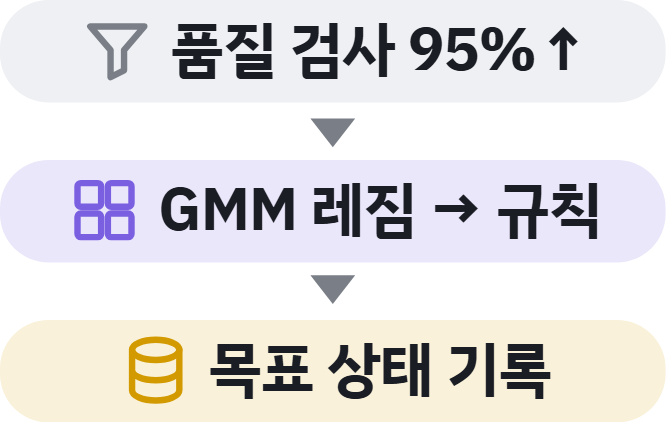
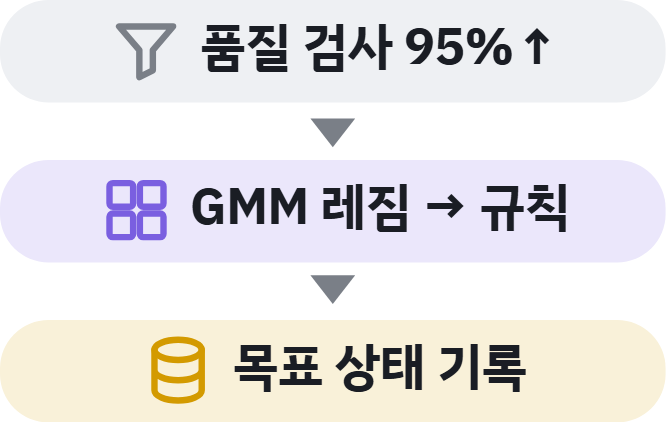
docs(steam): 한마당 카드 글자 상한 — 표 제목(12pt)을 넘지 않도록 헤드라인·KPI 12pt

diff --git a/docs/steam_report/v2/figs/m_flow1.html b/docs/steam_report/v2/figs/m_flow1.html
@@ -15,7 +15,7 @@ html,body{height:100%} body{word-break:keep-all}
 .lab{display:flex;flex-direction:column;align-items:center;justify-content:center;text-align:center;line-height:1.15;color:var(--dim);gap:.2mm;min-width:0}
 .lab .ar{width:0;height:0;border-left:2.6mm solid var(--gray);border-top:1.9mm solid transparent;border-bottom:1.9mm solid transparent;margin:.4mm 0}
 .lab .ad{width:0;height:0;border-top:2.6mm solid var(--gray);border-left:1.9mm solid transparent;border-right:1.9mm solid transparent;margin:.4mm 0}
-.kpi{font-size:calc(var(--fs-t)*1.5);letter-spacing:-.03em}
+.kpi{font-size:var(--fs-t);letter-spacing:-.02em}
 
 .fill{display:flex;flex-direction:column;justify-content:space-between;height:100%}
 .n{flex:none;justify-content:center;align-items:center;text-align:center;padding:.9mm 1.4mm;border-left:none;border-radius:4mm}

diff --git a/docs/steam_report/v2/figs/m_flow2.html b/docs/steam_report/v2/figs/m_flow2.html
@@ -15,7 +15,7 @@ html,body{height:100%} body{word-break:keep-all}
 .lab{display:flex;flex-direction:column;align-items:center;justify-content:center;text-align:center;line-height:1.15;color:var(--dim);gap:.2mm;min-width:0}
 .lab .ar{width:0;height:0;border-left:2.6mm solid var(--gray);border-top:1.9mm solid transparent;border-bottom:1.9mm solid transparent;margin:.4mm 0}
 .lab .ad{width:0;height:0;border-top:2.6mm solid var(--gray);border-left:1.9mm solid transparent;border-right:1.9mm solid transparent;margin:.4mm 0}
-.kpi{font-size:calc(var(--fs-t)*1.5);letter-spacing:-.03em}
+.kpi{font-size:var(--fs-t);letter-spacing:-.02em}
 
 .fill{display:flex;flex-direction:column;justify-content:space-between;height:100%}
 .n{flex:none;justify-content:center;align-items:center;text-align:center;padding:.9mm 1.4mm;border-left:none;border-radius:4mm}

diff --git a/docs/steam_report/v2/figs/m_flow3.html b/docs/steam_report/v2/figs/m_flow3.html
@@ -15,7 +15,7 @@ html,body{height:100%} body{word-break:keep-all}
 .lab{display:flex;flex-direction:column;align-items:center;justify-content:center;text-align:center;line-height:1.15;color:var(--dim);gap:.2mm;min-width:0}
 .lab .ar{width:0;height:0;border-left:2.6mm solid var(--gray);border-top:1.9mm solid transparent;border-bottom:1.9mm solid transparent;margin:.4mm 0}
 .lab .ad{width:0;height:0;border-top:2.6mm solid var(--gray);border-left:1.9mm solid transparent;border-right:1.9mm solid transparent;margin:.4mm 0}
-.kpi{font-size:calc(var(--fs-t)*1.5);letter-spacing:-.03em}
+.kpi{font-size:var(--fs-t);letter-spacing:-.02em}
 
 .fill{display:flex;flex-direction:column;justify-content:space-between;height:100%}
 .n{flex:none;justify-content:center;align-items:center;text-align:center;padding:.9mm 1.4mm;border-left:none;border-radius:4mm}

diff --git a/docs/steam_report/v2/figs/m_control.html b/docs/steam_report/v2/figs/m_control.html
@@ -15,7 +15,7 @@ html,body{height:100%} body{word-break:keep-all}
 .lab{display:flex;flex-direction:column;align-items:center;justify-content:center;text-align:center;line-height:1.15;color:var(--dim);gap:.2mm;min-width:0}
 .lab .ar{width:0;height:0;border-left:2.6mm solid var(--gray);border-top:1.9mm solid transparent;border-bottom:1.9mm solid transparent;margin:.4mm 0}
 .lab .ad{width:0;height:0;border-top:2.6mm solid var(--gray);border-left:1.9mm solid transparent;border-right:1.9mm solid transparent;margin:.4mm 0}
-.kpi{font-size:calc(var(--fs-t)*1.5);letter-spacing:-.03em}
+.kpi{font-size:var(--fs-t);letter-spacing:-.02em}
 
 .fill{display:grid;grid-template-columns:59.5mm 1fr;gap:1.6mm;height:100%}
 .q,.kp{display:grid;grid-template-columns:1fr 1fr;grid-template-rows:1fr 1fr;gap:1.2mm;min-height:0}

diff --git a/docs/steam_report/v2/figs/m_dash_screens.html b/docs/steam_report/v2/figs/m_dash_screens.html
@@ -15,7 +15,7 @@ html,body{height:100%} body{word-break:keep-all}
 .lab{display:flex;flex-direction:column;align-items:center;justify-content:center;text-align:center;line-height:1.15;color:var(--dim);gap:.2mm;min-width:0}
 .lab .ar{width:0;height:0;border-left:2.6mm solid var(--gray);border-top:1.9mm solid transparent;border-bottom:1.9mm solid transparent;margin:.4mm 0}
 .lab .ad{width:0;height:0;border-top:2.6mm solid var(--gray);border-left:1.9mm solid transparent;border-right:1.9mm solid transparent;margin:.4mm 0}
-.kpi{font-size:calc(var(--fs-t)*1.5);letter-spacing:-.03em}
+.kpi{font-size:var(--fs-t);letter-spacing:-.02em}
 
 .fill{display:grid;grid-template-columns:1fr 1fr;grid-template-rows:1fr 1fr;gap:.8mm 1.2mm;height:100%}
 .c{display:flex;flex-direction:column;gap:.3mm;min-height:0}

diff --git a/docs/steam_report/v2/figs/m_system.html b/docs/steam_report/v2/figs/m_system.html
@@ -15,7 +15,7 @@ html,body{height:100%} body{word-break:keep-all}
 .lab{display:flex;flex-direction:column;align-items:center;justify-content:center;text-align:center;line-height:1.15;color:var(--dim);gap:.2mm;min-width:0}
 .lab .ar{width:0;height:0;border-left:2.6mm solid var(--gray);border-top:1.9mm solid transparent;border-bottom:1.9mm solid transparent;margin:.4mm 0}
 .lab .ad{width:0;height:0;border-top:2.6mm solid var(--gray);border-left:1.9mm solid transparent;border-right:1.9mm solid transparent;margin:.4mm 0}
-.kpi{font-size:calc(var(--fs-t)*1.5);letter-spacing:-.03em}
+.kpi{font-size:var(--fs-t);letter-spacing:-.02em}
 
 .fill{display:grid;grid-template-columns:28mm 12mm 13mm 6mm 24mm 10mm 30mm;grid-template-rows:1fr 1fr;gap:1.2mm 0;height:100%}
 .col2{grid-row:1/3}

diff --git a/docs/steam_report/v2/figs/m_analysis.html b/docs/steam_report/v2/figs/m_analysis.html
@@ -15,7 +15,7 @@ html,body{height:100%} body{word-break:keep-all}
 .lab{display:flex;flex-direction:column;align-items:center;justify-content:center;text-align:center;line-height:1.15;color:var(--dim);gap:.2mm;min-width:0}
 .lab .ar{width:0;height:0;border-left:2.6mm solid var(--gray);border-top:1.9mm solid transparent;border-bottom:1.9mm solid transparent;margin:.4mm 0}
 .lab .ad{width:0;height:0;border-top:2.6mm solid var(--gray);border-left:1.9mm solid transparent;border-right:1.9mm solid transparent;margin:.4mm 0}
-.kpi{font-size:calc(var(--fs-t)*1.5);letter-spacing:-.03em}
+.kpi{font-size:var(--fs-t);letter-spacing:-.02em}
 
 .fill{display:grid;grid-template-columns:46mm 37mm 1fr;gap:1.6mm;height:100%}
 .b{padding:.9mm 1.5mm;gap:.5mm;justify-content:space-between}

diff --git a/docs/steam_report/v2/figs/m_dash.html b/docs/steam_report/v2/figs/m_dash.html
@@ -15,7 +15,7 @@ html,body{height:100%} body{word-break:keep-all}
 .lab{display:flex;flex-direction:column;align-items:center;justify-content:center;text-align:center;line-height:1.15;color:var(--dim);gap:.2mm;min-width:0}
 .lab .ar{width:0;height:0;border-left:2.6mm solid var(--gray);border-top:1.9mm solid transparent;border-bottom:1.9mm solid transparent;margin:.4mm 0}
 .lab .ad{width:0;height:0;border-top:2.6mm solid var(--gray);border-left:1.9mm solid transparent;border-right:1.9mm solid transparent;margin:.4mm 0}
-.kpi{font-size:calc(var(--fs-t)*1.5);letter-spacing:-.03em}
+.kpi{font-size:var(--fs-t);letter-spacing:-.02em}
 
 .fill{display:grid;grid-template-columns:repeat(5,1fr);gap:1.1mm;height:100%}
 .b{padding:.9mm 1.4mm;gap:.4mm;justify-content:space-between}

diff --git a/docs/steam_report/v2/figs/m_flow.html b/docs/steam_report/v2/figs/m_flow.html
@@ -15,7 +15,7 @@ html,body{height:100%} body{word-break:keep-all}
 .lab{display:flex;flex-direction:column;align-items:center;justify-content:center;text-align:center;line-height:1.15;color:var(--dim);gap:.2mm;min-width:0}
 .lab .ar{width:0;height:0;border-left:2.6mm solid var(--gray);border-top:1.9mm solid transparent;border-bottom:1.9mm solid transparent;margin:.4mm 0}
 .lab .ad{width:0;height:0;border-top:2.6mm solid var(--gray);border-left:1.9mm solid transparent;border-right:1.9mm solid transparent;margin:.4mm 0}
-.kpi{font-size:calc(var(--fs-t)*1.5);letter-spacing:-.03em}
+.kpi{font-size:var(--fs-t);letter-spacing:-.02em}
 
 .fill{display:flex;flex-direction:column;gap:1.2mm;height:100%}
 .pills{display:flex;align-items:stretch;gap:0;flex:none}

diff --git a/docs/steam_report/v2/design/base_m.css b/docs/steam_report/v2/design/base_m.css
@@ -1,2 +1,3 @@
-/* 한마당 3종 포스터용 크기 체계(확대 인쇄 전제): 본문 9pt / 제목 14pt 굵게 — 두 단계만, 큰 숫자는 .kpi */
-html[data-kind="m"] { --fs: 9pt; --fs-t: 14pt; --u: 0.86; }
+/* 한마당 3종 포스터용 크기 체계: 카드 안 글자는 표 제목(12pt)을 넘지 않는다 — 본문 9pt / 헤드라인 12pt, 큰 숫자(.kpi)도 12pt */
+html[data-kind="m"] { --fs: 9pt; --fs-t: 12pt; --u: 0.86; }
+html[data-kind="m"] .kpi { font-size: var(--fs-t); }

diff --git a/docs/steam_report/HANDOFF.md b/docs/steam_report/HANDOFF.md
@@ -63,6 +63,6 @@ report2/build_report.py   # hwpx 조립: 섹션0(보고서) + poster_fill.py(섹
 - 한/글 COM의 파일 접근 보안 대화상자는 UIA invoke로 닫히지 않고 실제 마우스 클릭만 통한다.
 
 ## 7. 한마당(충남 온누리 AI·SW 학생동아리) 포스터 3종 — v2 (2026-10-03 저녁)
-- 같은 디자인 시스템으로 중앙 포스터의 카드 5종(`m_system, m_dash, m_analysis, m_flow, m_control`), 단계 카드 3종(`m_flow1~3`), 소형 차트 2종(`m_exceed, m_decay` 48×39mm), 화면 2×2(`m_dash_screens`)를 교체. 크기 체계 `data-kind="m"`(`design/base_m.css`: 본문 9pt / 제목 14pt, 확대 인쇄 전제, 렌더 4.5배). 사용자 피드백으로 카드는 이전 버전(c1~c5)의 **색 블록 + 큰 헤드라인 + 아이콘** 문법으로 재설계(토큰 색·두 단계 글자 유지).
+- 같은 디자인 시스템으로 중앙 포스터의 카드 5종(`m_system, m_dash, m_analysis, m_flow, m_control`), 단계 카드 3종(`m_flow1~3`), 소형 차트 2종(`m_exceed, m_decay` 48×39mm), 화면 2×2(`m_dash_screens`)를 교체. 크기 체계 `data-kind="m"`(`design/base_m.css`: 본문 9pt / 헤드라인 12pt(= 표 제목 크기, 카드 안 글자는 표 제목을 넘지 않는다는 규칙; .kpi도 12pt), 확대 인쇄 전제, 렌더 4.5배). 사용자 피드백으로 카드는 이전 버전(c1~c5)의 **색 블록 + 큰 헤드라인 + 아이콘** 문법으로 재설계(토큰 색·두 단계 글자 유지).
 - 빌더: 바탕화면 `빌드소스_학생버전/poster3/build_poster3_v2.py`(양식 `formx/`, 캡처 `shots/`) → `1팀/2. 제출 양식(포스터 3종)_공주고_MintCap_v2.hwpx`. 제목·캡션·Q&A 문체를 개조식으로, "납땜" 표현과 수치(157,744건·15/16대)를 정정.
 - 미확인: 한/글 조판(사용자가 열어 확인). 사진 자리 6곳은 그대로.
